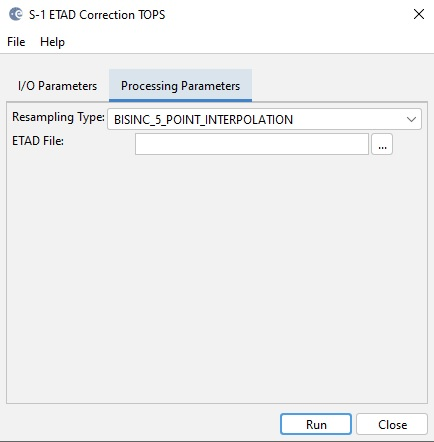
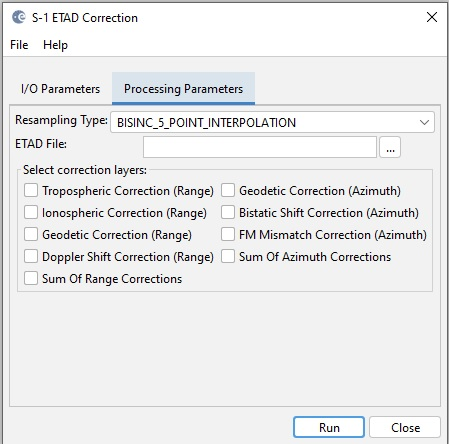
SRM-98 Updated the online help

Changed region(s): [[0.0, 0.0, 1.0, 1.0]]

diff --git a/sar-op-sentinel1-ui/src/main/resources/eu/esa/sar/sentinel1/docs/operators/ETADCorrectionTOPSOp.html b/sar-op-sentinel1-ui/src/main/resources/eu/esa/sar/sentinel1/docs/operators/ETADCorrectionTOPSOp.html
@@ -8,42 +8,51 @@
 <table class="header">
     <tbody>
     <tr class="header">
-        <td class="header">&nbsp; ETAD Correction for GRD Production<br>
+        <td class="header">&nbsp; ETAD Correction for Sentinel-1 Products<br>
         </td>
         <td class="header" align="right"><a href="../general/Overview.html"><img src="../images/snap_header.jpg" border="0"></a></td>
     </tr>
     </tbody>
 </table>
-<h3>ETAD Correction for GRD Product</h3>
-<p> The operator applies the ETAD correction to Sentinel-1&nbsp;TOPS SLC product.
+<h3>ETAD Correction for Sentinel-1 Products</h3>
+<p> The operator applies the ETAD correction to Sentinel-1 TOPS SLC,
+Stripmap SLC and GRD products.
 The Extended Timing Annotation Dataset (ETAD) for Copernicus Sentinel-1
 is a new auxiliary product developed by ESA (with DLR as contractor),
-providing users with corrections to improve geometric accuracy of
-Sentinel-1 SLC images to centimetric levels. The product contains
+providing users with corrections to improve the geometric accuracy of
+the Sentinel-1&nbsp;images. For Stentinel-1 TOPS SLC product, the
+geometric accuracy can be improved to centimetric levels. The product
+contains
 analysis-ready layers for removing the atmospheric path delays, the
 solid Earth tidal deformation, and the Sentinel-1 system specific
-effects related to the IPF SAR processor. The current operator by
-default applies the Range Correction Sum layer and Azimuth Correction
-Sum layer to the TOPS SLC product.&nbsp; <br></p><h4>Input</h4>
+effects related to the IPF SAR processor.&nbsp;</p><p>The operator
+computes for all pixels the range and azimuth offsets using the user
+selected ETAD correction layers and resamples the image based on the
+computed range and azimuth offsets. <br></p><h4>Input</h4>
 <ul>
-    <li>The input to this operator should be split Sentinel-1 TOPS SLC product.</li>
+    <li>The input to this operator should be split Sentinel-1 TOPS SLC product, Stripmap SLC product or GRD product.</li>
 </ul>
 
 <h4>Output</h4>
 <ul>
-    <li>The output of the operator is the ETAD corrected split TOPS SLC product.</li>
+    <li>The output of the operator is the ETAD corrected&nbsp;product.</li>
 </ul>
 
 
 <h4>Parameters Used</h4>
 <ul>
-    <li>ETAD File: The ETAD product&nbsp;provided in a SAFE product container.<br>
-    </li>
+    <li>Resampling Type: The interpolation methods used for resampling the image.</li><li>ETAD File: The ETAD product&nbsp;provided in a SAFE product container.&nbsp;</li><li>ETAD
+Correction Layers: The range and azimuth correction layers. Note that
+the&nbsp;"Sum Of Range Corrections" layer&nbsp;contains all the
+individual range correction layers in it, and the "Sum Of Azimuth
+Corrections" contains all the individual azimuth correction layers.
+Therefore, they should not be selected together with any of the
+individual layers.&nbsp; </li>
 </ul>
 
 
 <br>
-<p><img style="width: 434px; height: 442px;" alt="" src="images/ETADCorrectionTOPSOp.jpg"><br></p><br>
+<p><img style="width: 449px; height: 444px;" alt="" src="images/ETADCorrectionTOPSOp.jpg"><br></p><br>
 <h3>Reference:</h3>
 <p>[1] S1-ETAD Project: Product definition Document, Doc. ID ETAD-DLR-PS-0002, Issue 2.4, Date 06.03.2023, Page 1 of 37.</p><p>[2] S1-ETAD: Product Format Specification Document, Doc. ID ETAD-DLR-PS-0014, Issue 1.8, Date 06.03.2023, Page 1 of 63.</p>
 
